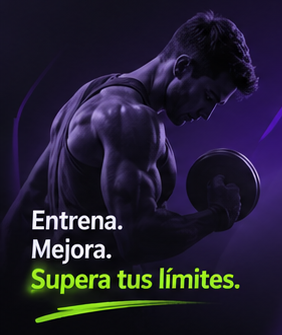
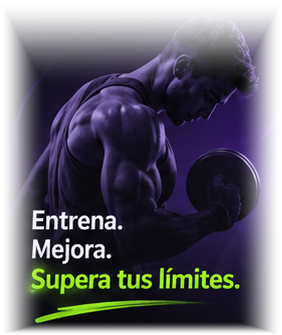
feat(fx): blend the sidebar athlete picture with the background

diff --git a/src/main/resources/fx/nextfit-violet.css b/src/main/resources/fx/nextfit-violet.css
@@ -444,3 +444,16 @@
     -fx-effect: dropshadow(gaussian, rgba(143, 85, 255, 0.55), 16, 0.05, 0, 0);
 }
 .nf-avatar { -fx-effect: dropshadow(gaussian, -nf-lime-glow, 14, 0.05, 0, 0); }
+
+/* Imagen del atleta: sus bordes están difuminados (transparentes), así que en oscuro se funde con la barra lateral
+   sin tarjeta propia. En claro la barra es blanca, por eso allí conserva una tarjeta oscura donde fundirse. */
+.root.dark .nf-promo {
+    -fx-background-color: transparent;
+    -fx-border-color: transparent;
+    -fx-effect: null;
+}
+.root.light .nf-promo {
+    -fx-background-color: linear-gradient(to bottom, #1B1036, #2C1566);
+    -fx-background-radius: 20;
+    -fx-border-color: transparent;
+}
